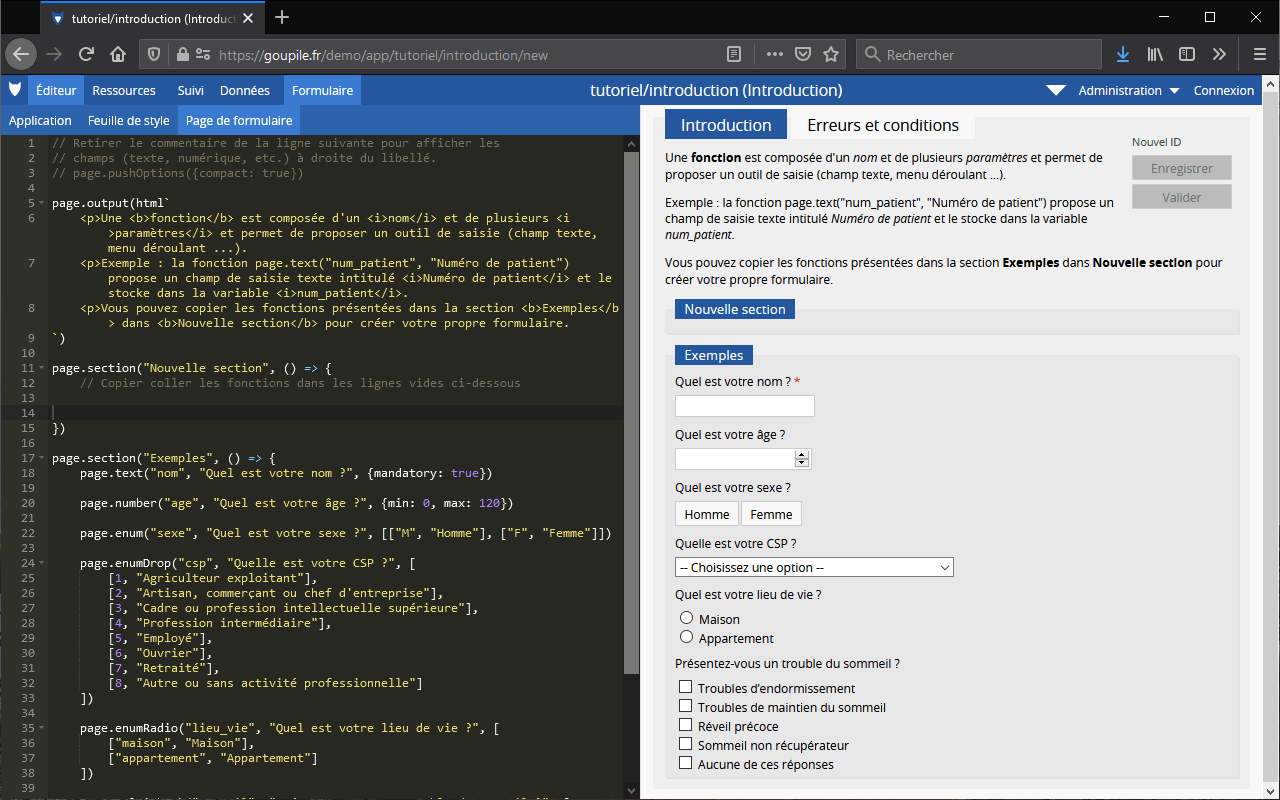
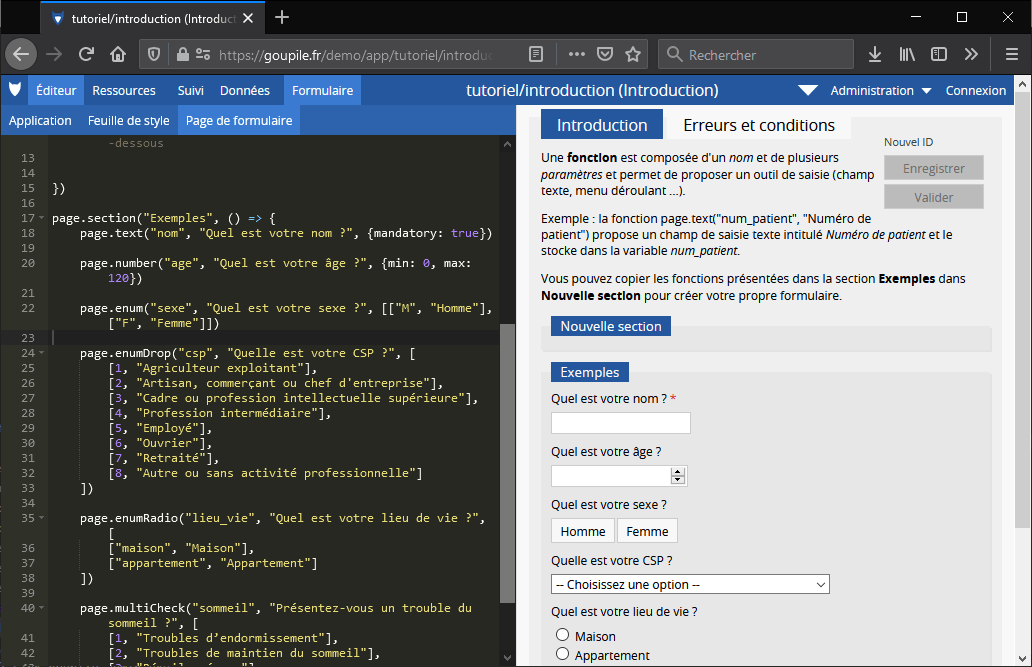
Reduce size of goupile screenshots

diff --git a/src/sites/goupile.fr/static/goupile.fr.css b/src/sites/goupile.fr/static/goupile.fr.css
@@ -45,7 +45,7 @@ p:last-child { margin-bottom: 0; }
 #screenshots {
     margin: 0 auto;
     padding: 1em 0 0 0;
-    width: 1280px;
+    width: 1032px;
     max-width: 90%;
     text-align: center;
 }
@@ -88,6 +88,6 @@ p:last-child { margin-bottom: 0; }
 #veil.active { display: flex; }
 #veil > img {
     position: absolute;
-    max-width: 200vw;
+    max-width: 90%;
     box-shadow: 0 0 15px rgba(0, 0, 0, 0.3);
 }
